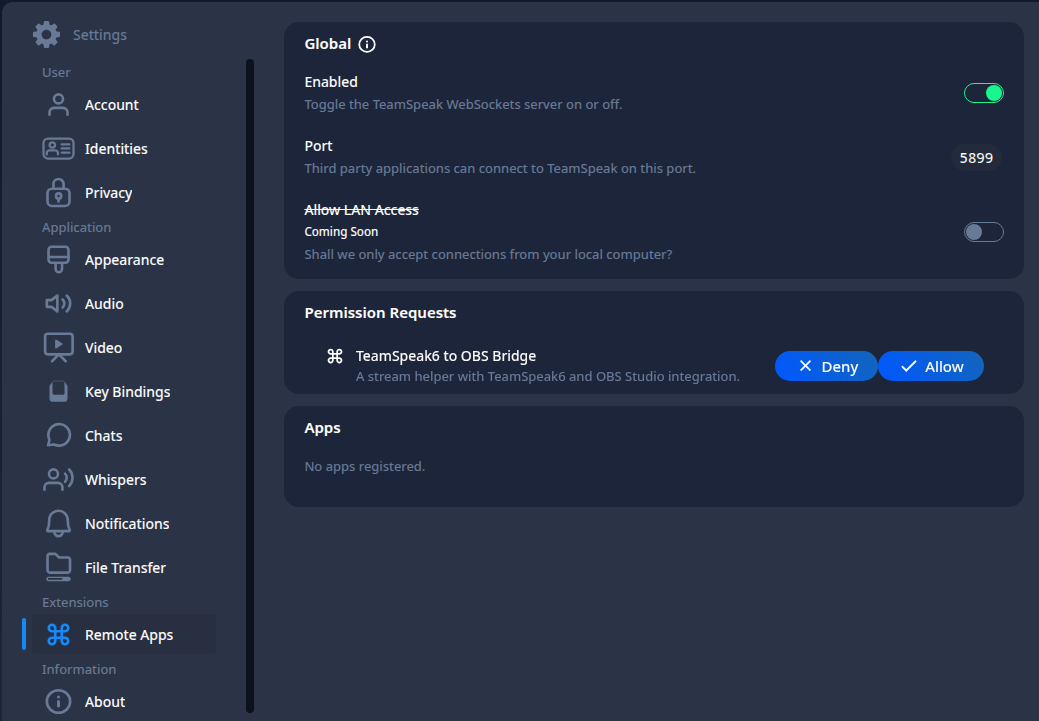
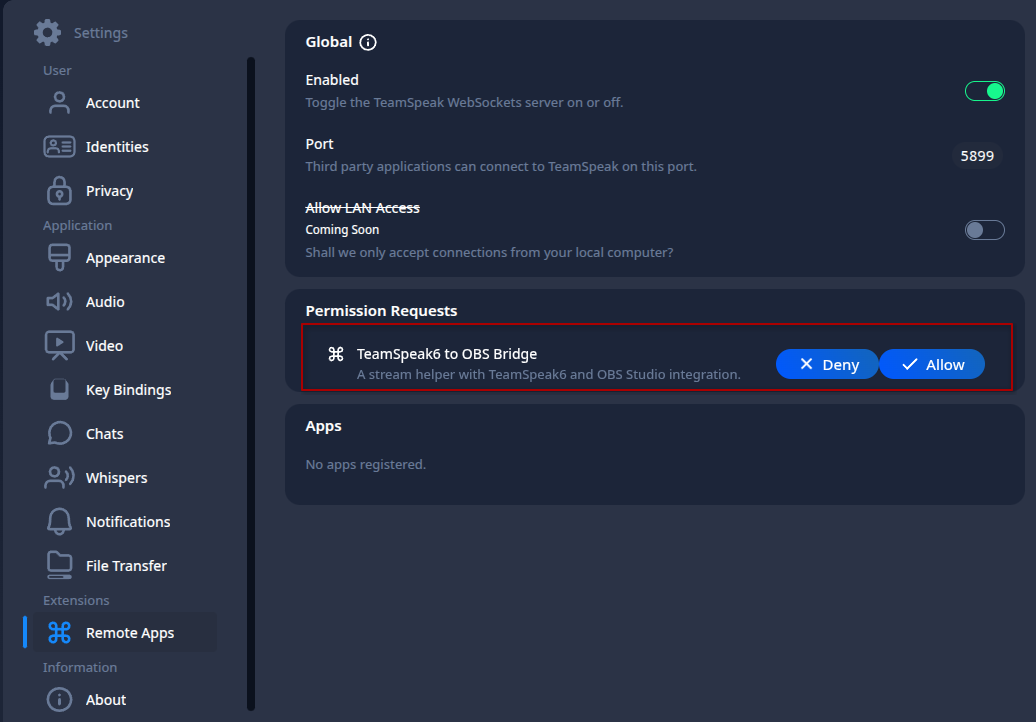
Fixed an error when connecting to team speak without being on a server

diff --git a/src/modules/TeamSpeak/TeamSpeak6Connector.py b/src/modules/TeamSpeak/TeamSpeak6Connector.py
@@ -90,8 +90,9 @@ class TeamSpeak6Connector:
         self.logger.debug("Authenticated")
         self.logger.trace(f"Response: {response}")
         self.websocket = websocket
-        if len(response["payload"]["connections"]) > 0:
-            await self.load_clients_present(response["payload"]["connections"][0]["clientId"],  response["payload"]["connections"][0]["clientInfos"])
+        if len(response["payload"]["connections"]) == 0:
+            raise TeamSpeakException(f"Please connect to a server")
+        await self.load_clients_present(response["payload"]["connections"][0]["clientId"],  response["payload"]["connections"][0]["clientInfos"])
         self.logger.debug(f"User id: {self.user.id}")
 
         create_task(self.receive_loop())
@@ -118,7 +119,7 @@ class TeamSpeak6Connector:
         self.websocket = None
 
     async def receive_loop(self) -> None:
-        while not self.stop_event.is_set():
+        while not self.stop_event.is_set() and self.websocket is not None:
             try:
                 async with timeout(0.5):
                     message = loads(await self.websocket.recv())
@@ -218,6 +219,7 @@ class TeamSpeak6Connector:
                 self.logger.error("Connection closed with error", cce)
                 self.connection_failed_callback(Status.TeamSpeakNotReady)
                 await self.websocket.close()
+                self.websocket = None
             except Exception as ex:
                 self.logger.error("Error during retrieving message", ex)
 

diff --git a/README.md b/README.md
@@ -12,11 +12,16 @@ When started, a web UI will be hosted on http://127.0.0.1:12345.
 If the ports and IPs are correct, you just need to fill in the password and the scene name for OBS.
 
 ## Team Speak
+> [!CAUTION]
+> For the use, you need to connect to the server you want to use for the stream on Team Speak before connecting the application to it.
+
 For Team Speak, when you click on connect, the application will request an API key from Team Speak.
 
 ![teamspeak_settings](resources/teamspeak_settings.png)
 
 You will need to allow the application to create an API key for it, and save it to the application's database.
+
+![teamspeak_allow](resources/teamspeak_allow.png)
 
 When connected you will be able to click on the "CONNECTED" marker to open a diagnostic page for the connection with basic information.
 
